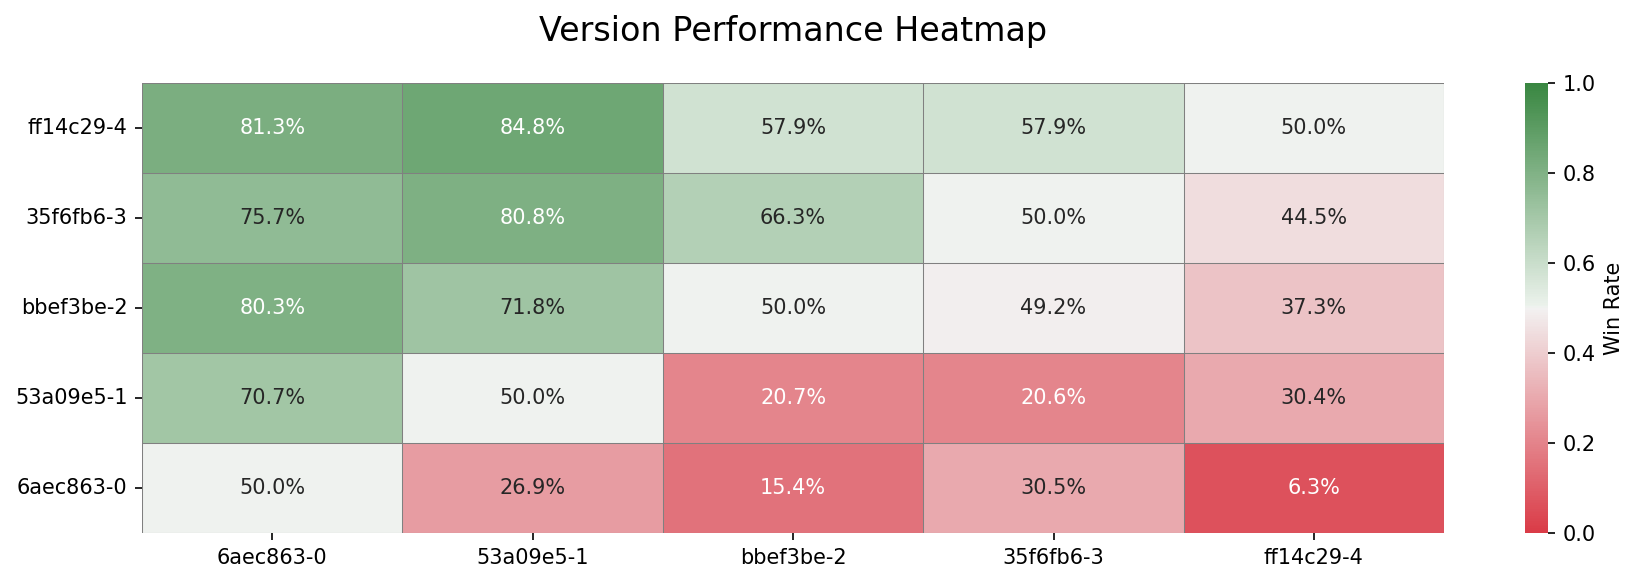
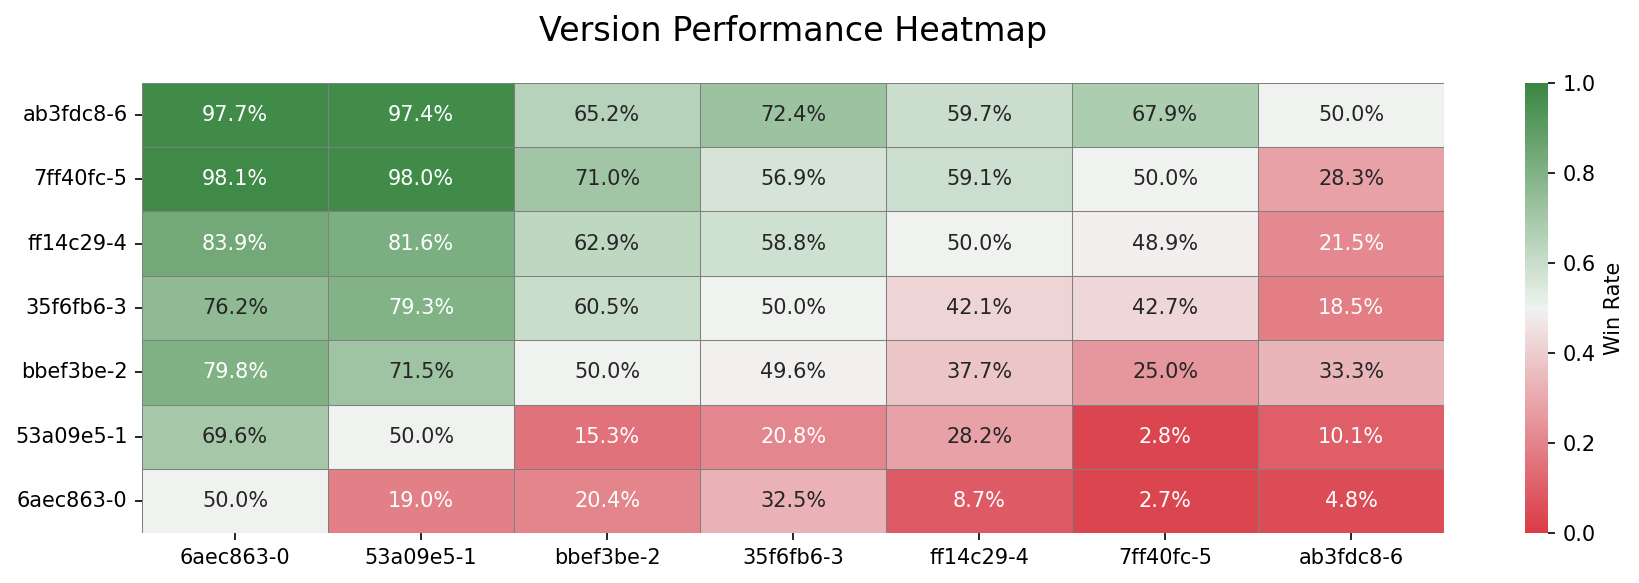
tournament + README update

diff --git a/scripts/tournament.py b/scripts/tournament.py
@@ -10,8 +10,6 @@ import seaborn as sns
 
 from pathlib import Path
 
-# List of commit names - modify this list as needed
-# Lower values should correspond to newer commits
 COMMIT_NAMES = [
     # these three were essentially random due to critical bugs in search/eval
     # "9fec3a0",
@@ -23,8 +21,12 @@ COMMIT_NAMES = [
     "bbef3be",  # quiescence search
     "35f6fb6",  # transposition table
     "ff14c29",  # faster eval
-    "178499a",  # threefold repetition detection
+    "7ff40fc",  # threefold repetition detection
+    "ab3fdc8",  # passed / doubled pawns
 ]
+
+MASTER_OPTIONS = {
+}
 
 
 def find_binary(version_name):
@@ -51,6 +53,22 @@ def find_master_binary():
     return None
 
 
+def get_commit_info(commit_item):
+    """Extract commit name and options from commit item (supports both string and dict formats)."""
+    if isinstance(commit_item, str):
+        return commit_item, {}
+    elif isinstance(commit_item, dict):
+        return commit_item["commit"], commit_item.get("options", {})
+    else:
+        raise ValueError(f"Invalid commit format: {commit_item}")
+
+
+def add_uci_options(cmd, options):
+    """Add UCI options to the command list."""
+    for option_name, option_value in options.items():
+        cmd.extend([f"option.{option_name}={option_value}"])
+
+
 def build_fastchess_command(commit_names, add_master=False, duel=False):
     """
     Build the fastchess command with multiple engines based on commit names.
@@ -70,11 +88,15 @@ def build_fastchess_command(commit_names, add_master=False, duel=False):
             f"cmd={master_binary}",
             "name=master"
         ])
+        # Add UCI options for master
+        add_uci_options(cmd, MASTER_OPTIONS)
 
     # Add engine parameters for each commit
-    for i, commit_name in enumerate(commit_names):
-        if duel and (i < len(commit_names) - (0 if not add_master else 1)):
+    for i, commit_item in enumerate(commit_names):
+        if duel and (i < len(commit_names) - (2 if not add_master else 1)):
             continue
+
+        commit_name, commit_options = get_commit_info(commit_item)
 
         binary_path = find_binary(commit_name)
         if binary_path is None:
@@ -89,11 +111,13 @@ def build_fastchess_command(commit_names, add_master=False, duel=False):
             f"cmd={binary_path}",
             f"name={engine_name}-{i}"
         ])
+        # Add UCI options for this commit
+        add_uci_options(cmd, commit_options)
 
     # Add common parameters
     cmd.extend([
         "-each", "tc=5",
-        "-rounds", "300",
+        "-rounds", "100",
         "-concurrency", "32",
         "-config", "outname=scripts/tournament_results.json"
     ])
@@ -212,6 +236,30 @@ def generate_heatmap(results_file="scripts/tournament_results.json", add_master=
     print(f"\nHeatmap saved to {output_file}")
 
 
+def print_engine_info(commit_names, add_master=False):
+    """Print information about engines and their options."""
+    total_engines = len(commit_names)
+    if add_master:
+        total_engines += 1
+
+    print(f"Engines configured:")
+
+    if add_master:
+        options_str = ""
+        if MASTER_OPTIONS:
+            options_list = [f"{k}={v}" for k, v in MASTER_OPTIONS.items()]
+            options_str = f" (options: {', '.join(options_list)})"
+        print(f"  master (target/release/prokopakop){options_str}")
+
+    for i, commit_item in enumerate(commit_names):
+        commit_name, commit_options = get_commit_info(commit_item)
+        options_str = ""
+        if commit_options:
+            options_list = [f"{k}={v}" for k, v in commit_options.items()]
+            options_str = f" (options: {', '.join(options_list)})"
+        print(f"  {i}. {commit_name} (target/release/prokopakop-{commit_name}){options_str}")
+
+
 def main():
     """
     Main function to run the fastchess tournament.
@@ -236,18 +284,9 @@ def main():
         generate_heatmap(args.results_file, args.add_master)
     else:
         # Run the tournament
-        total_engines = len(commits_to_use)
-        if args.add_master:
-            total_engines += 1
-
         tournament_type = "duel" if args.duel else "tournament"
-        print(f"Setting up fastchess {tournament_type} with {total_engines} engines:")
-
-        if args.add_master:
-            print("  master (target/release/prokopakop)")
-
-        for i, commit in enumerate(commits_to_use):
-            print(f"  {i}. {commit} (target/release/prokopakop-{commit})")
+        print(f"Setting up fastchess {tournament_type}:")
+        print_engine_info(commits_to_use, args.add_master)
         print()
 
         # Run fastchess

diff --git a/README.md b/README.md
@@ -17,13 +17,20 @@ A moderately fast UCI chess engine written in Rust that **kops the Prokop**.
     <figcaption><em>Performance benchmarks across git commits on a i9-14900K. Benchmarks use perft 5, hashing and bulk-counting.</em></figcaption>
 </figure>
 
-### Search + Evaluation
+### Search
 
-- **[Alpha-Beta](https://www.chessprogramming.org/Alpha-Beta) Search** via **[Negamax](https://www.chessprogramming.org/Negamax)** - Negamax search with alpha-beta pruning
-- **[Iterative Deepening](https://www.chessprogramming.org/Iterative_Deepening)** - Progressive search depth
-- **[Move Ordering](https://www.chessprogramming.org/Move_Ordering)** - Principal Variation (PV) moves first, then Most Valuable Victim - Least Valuable Attacker (MVV-LVA)
-- **[Quiescence Search](https://www.chessprogramming.org/Quiescence_Search)** - to avoid horizon effect
-- **[Transposition Table](https://www.chessprogramming.org/Transposition_Table)** - Position caching to avoid re-searching identical positions
+- **[Alpha-Beta](https://www.chessprogramming.org/Alpha-Beta)** via **[Negamax](https://www.chessprogramming.org/Negamax)**
+- **[Iterative Deepening](https://www.chessprogramming.org/Iterative_Deepening)**
+- **[Move Ordering](https://www.chessprogramming.org/Move_Ordering)** - principal variation moves first, then [MVV-LVA](https://www.chessprogramming.org/MVV-LVA)
+- **[Quiescence Search](https://www.chessprogramming.org/Quiescence_Search)**
+- **[Transposition Table](https://www.chessprogramming.org/Transposition_Table)**
+
+### Evaluation
+
+- [Material](https://www.chessprogramming.org/Material)
+- [Piece-Square tables](https://www.chessprogramming.org/Piece-Square_Tables)
+- [Pawn Structure](https://www.chessprogramming.org/Pawn_Structure) (doubled pawns, passed pawns)
+
 
 <figure>
     <img src="scripts/tournament.png" alt="Tournament Results Heatmap" width="100%">
